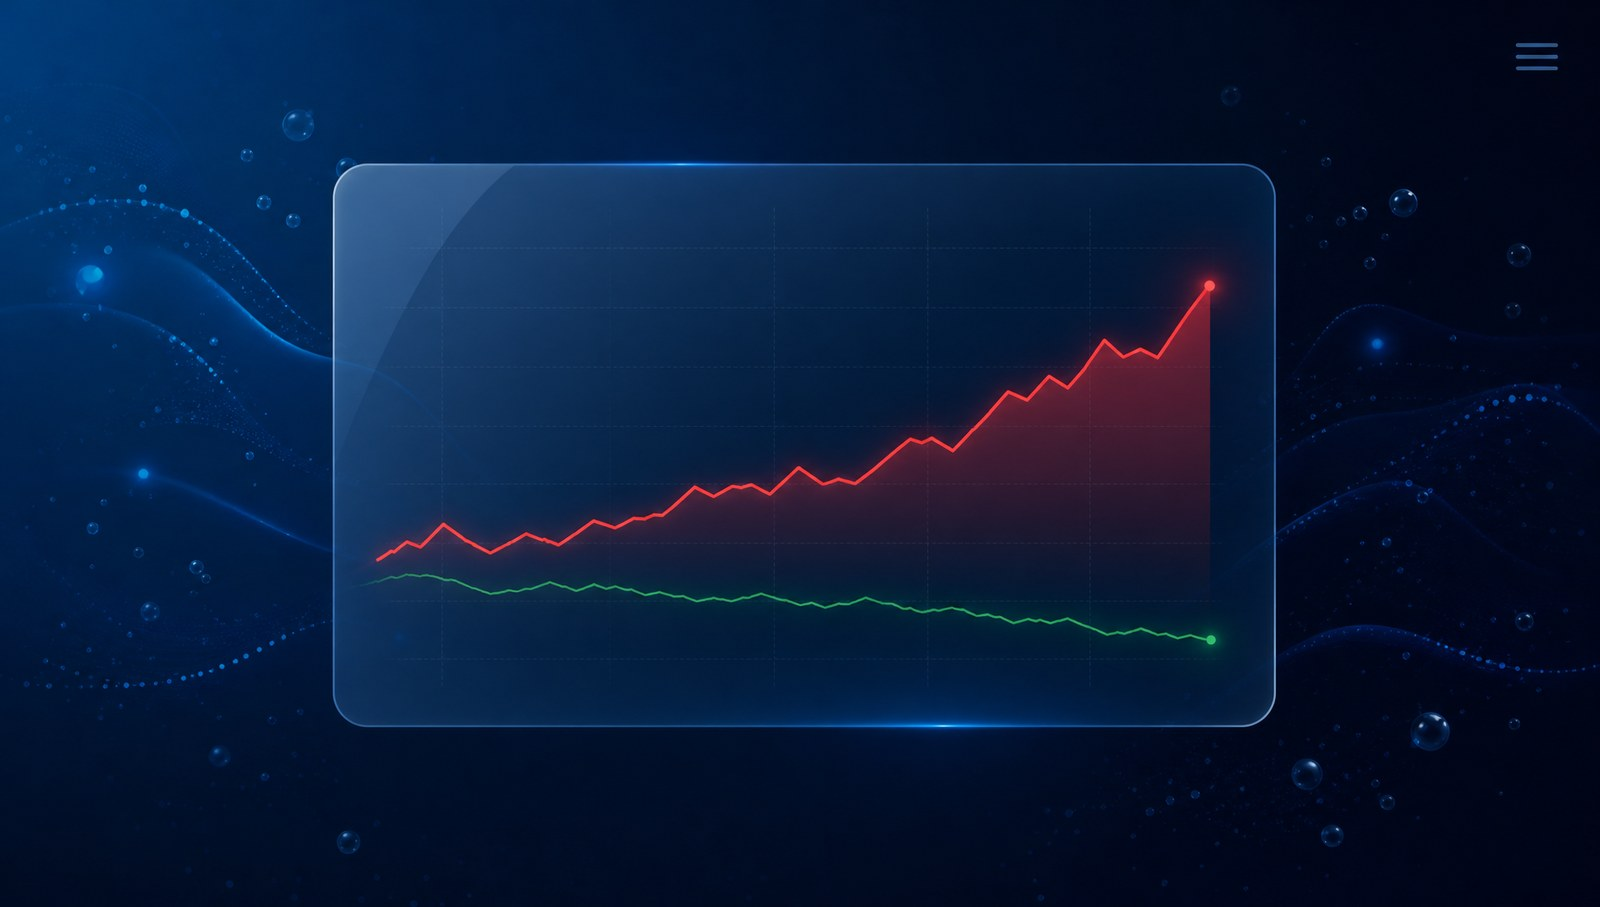
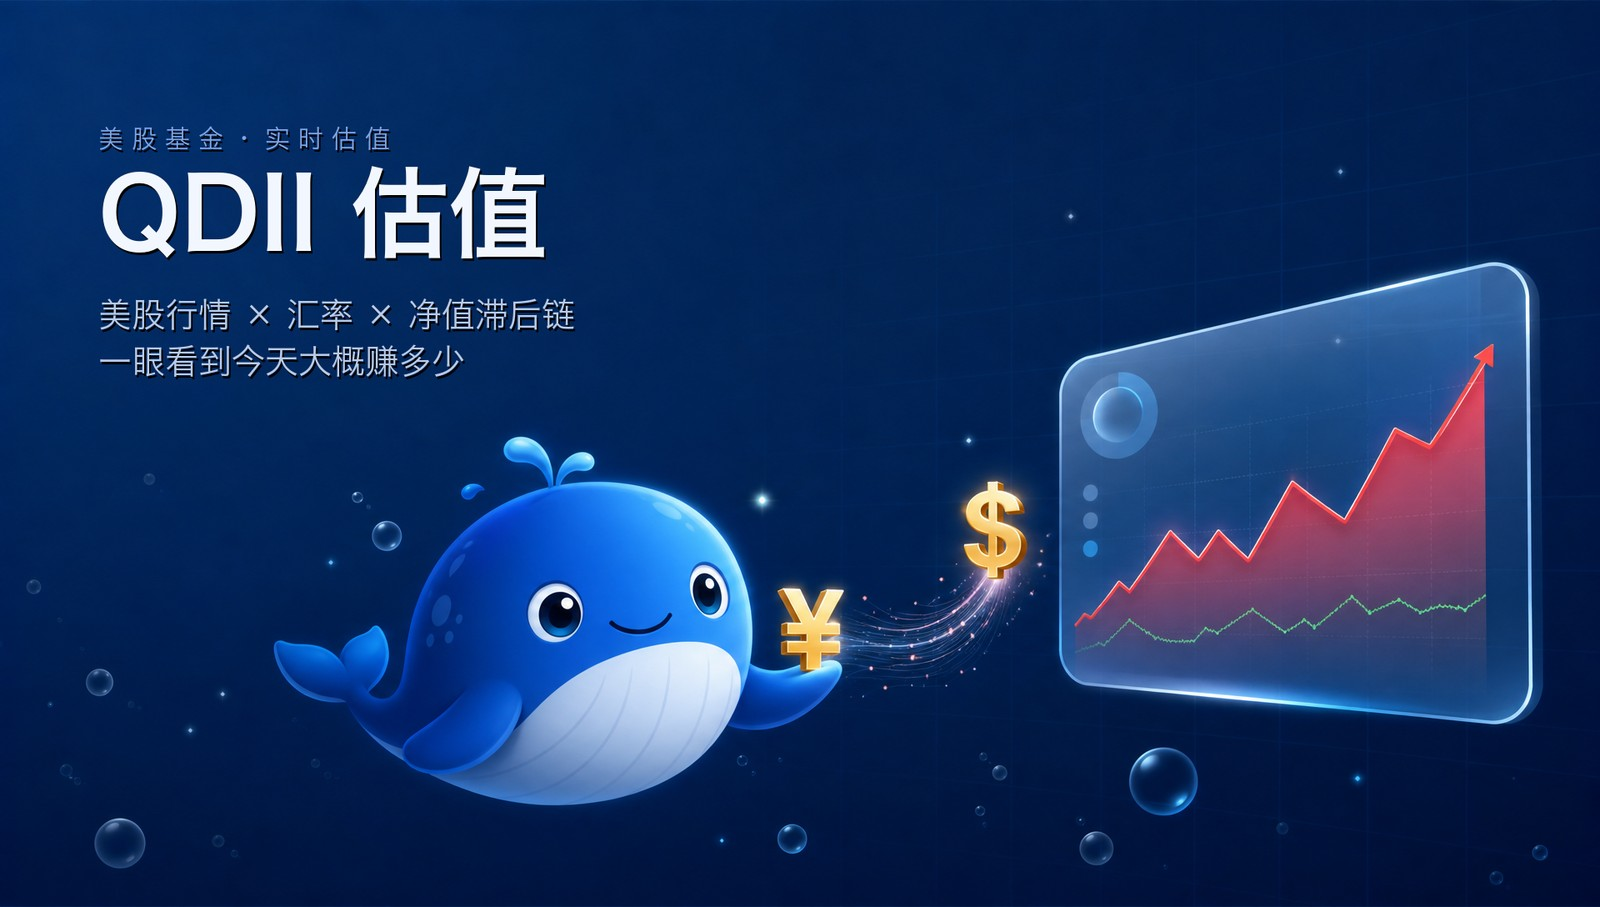
docs: 主视觉改成能一眼看懂的小鲸鱼介绍图
- DeepSeek 风格蓝色小鲸鱼 + ¥/$ 数据流 + 红色上涨曲线面板，直接表达
  「美股行情 → 汇率 → 人民币净值」。
- 标题与副标题用系统字体后期叠加（AI 写中文会乱码），压成 1600×907 JPEG。

diff --git a/README.md b/README.md
@@ -1,5 +1,5 @@
 <p align="center">
-  <img src="docs/images/hero.jpg" alt="QDII 估值 · 深色玻璃拟态仪表盘" width="100%">
+  <img src="docs/images/hero.jpg" alt="QDII 估值 · 蓝色小鲸鱼与美股基金估值面板" width="100%">
 </p>
 
 # QDII 估值 · 美股基金实时估值
